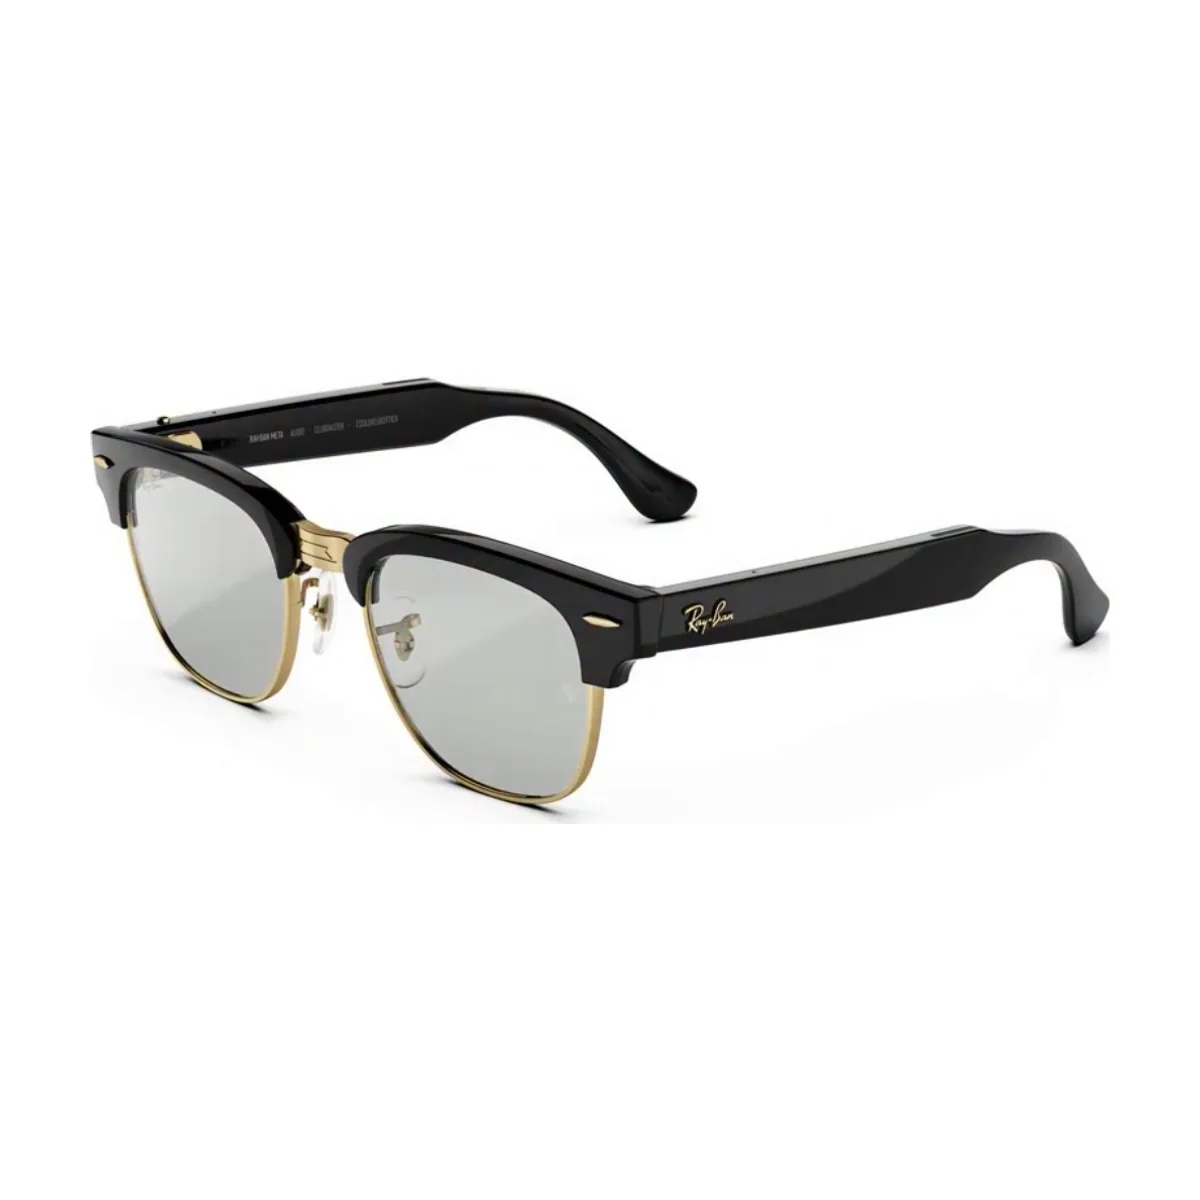
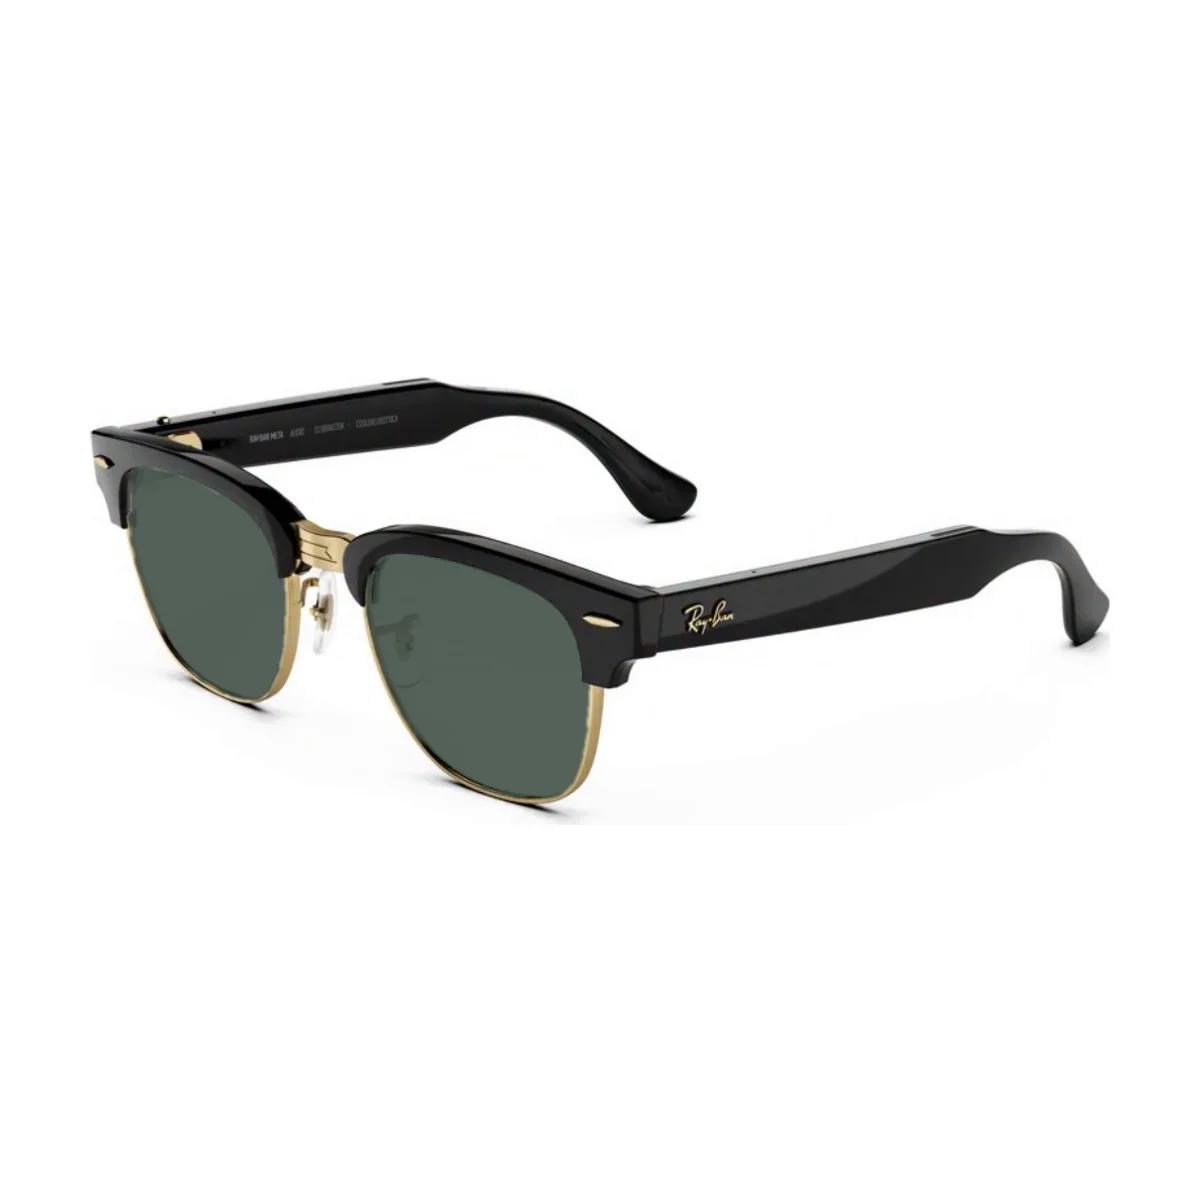
fix: lente que escurece bem visível no Clubmaster e no Gatinho e animação mais robusta
- Clubmaster e Gatinho: a foto "escurecida" do par real era só um cinza um
  pouco mais forte, quase imperceptível; agora a lente chega ao verde-escuro
  das fotos de lente escura do próprio modelo
- LensPhoto: mistura com o fundo passa para o contêiner; a foto escura anima
  apenas a opacidade (evita falha de redesenho no Safari do iPhone)
- Ciclo mais curto (7 s) para o efeito ser percebido mais rápido

Claude-Session: https://claude.ai/code/session_01AuJFh3ZDNDmqpb7q2t5h1Z

Changed region(s): [[0.2775, 0.4625, 0.4933, 0.6783], [0.0925, 0.37, 0.2467, 0.5858]]

diff --git a/src/components/ui/lens-photo.tsx b/src/components/ui/lens-photo.tsx
@@ -23,12 +23,14 @@ interface Props {
 /** Foto de produto que ocupa o contêiner (o pai precisa ser `relative`), com o efeito de lente opcional. */
 export function LensPhoto({ src, sunSrc, alt, sizes, priority, className }: Props) {
   return (
-    <>
-      <Image src={src} alt={alt} fill sizes={sizes} priority={priority} unoptimized={isBundledImage(src)} className={cn("object-contain mix-blend-multiply", className)} />
+    // A mistura com o fundo fica no contêiner; a foto escura anima só a opacidade,
+    // sem modo de mistura próprio (combinação que o Safari do iPhone nem sempre redesenha).
+    <span className="absolute inset-0 mix-blend-multiply">
+      <Image src={src} alt={alt} fill sizes={sizes} priority={priority} unoptimized={isBundledImage(src)} className={cn("object-contain", className)} />
       {sunSrc && (
         // `eager`: a foto escura precisa estar carregada antes de a animação começar a mostrá-la.
-        <Image src={sunSrc} alt="" aria-hidden fill sizes={sizes} loading="eager" unoptimized={isBundledImage(sunSrc)} className={cn("animate-lens-sun object-contain mix-blend-multiply", className)} />
+        <Image src={sunSrc} alt="" aria-hidden fill sizes={sizes} loading="eager" unoptimized={isBundledImage(sunSrc)} className={cn("animate-lens-sun object-contain", className)} />
       )}
-    </>
+    </span>
   );
 }

diff --git a/src/app/globals.css b/src/app/globals.css
@@ -32,7 +32,7 @@
   --shadow-lift: 0 2px 4px rgb(10 15 30 / 0.04), 0 24px 48px -16px rgb(29 54 215 / 0.18);
 
   --animate-fade-up: fade-up 0.6s cubic-bezier(0.22, 1, 0.36, 1) both;
-  --animate-lens-sun: lens-sun 9s ease-in-out infinite;
+  --animate-lens-sun: lens-sun 7s ease-in-out infinite;
   --animate-shimmer: shimmer 1.6s linear infinite;
   --animate-toast-in: toast-in 0.35s cubic-bezier(0.22, 1, 0.36, 1) both;
 
@@ -42,8 +42,8 @@
   }
   /* Lente fotocromática: clara → escurece aos poucos → fica escura → clareia. */
   @keyframes lens-sun {
-    0%, 14% { opacity: 0; }
-    46%, 68% { opacity: 1; }
+    0%, 10% { opacity: 0; }
+    45%, 70% { opacity: 1; }
     100% { opacity: 0; }
   }
   @keyframes shimmer {
@@ -105,7 +105,7 @@
    (mostra a lente fotocromática) e continua ativo mesmo com "reduzir movimento". */
 @media (prefers-reduced-motion: reduce) {
   .animate-lens-sun {
-    animation-duration: 9s !important;
+    animation-duration: 7s !important;
     animation-iteration-count: infinite !important;
   }
 }
